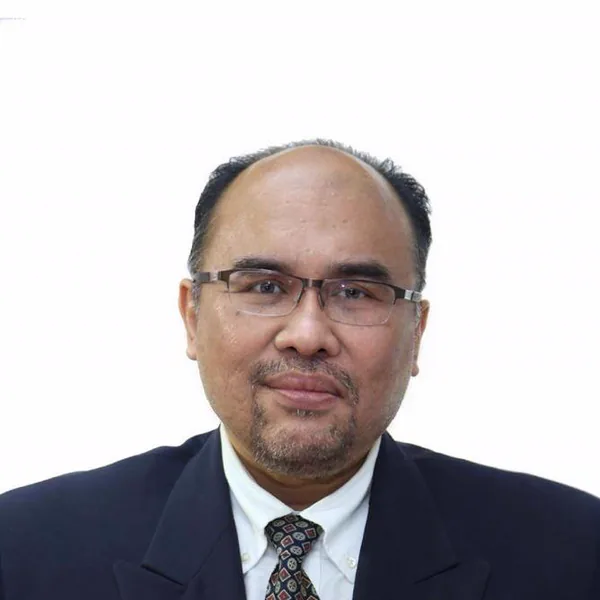
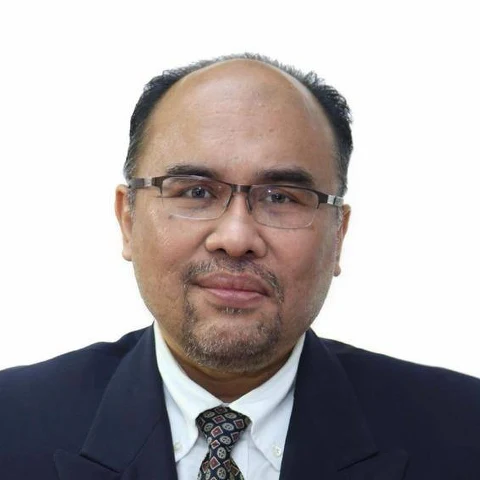
Jawatankuasa: zoom Dr Shalizan ikut saiz muka Presiden

Changed region(s): [[0.0, 0.0938, 1.0, 1.0], [0.25, 0.9375, 0.2812, 0.9688]]

diff --git a/en/about/index.html b/en/about/index.html
@@ -113,7 +113,7 @@
       </div>
       <div class="card">
         <h2>Executive Committee — Term 2026–2028</h2>
-        <div class="org-carta"><button class="gambar" type="button" data-besar="/assets/carta-organisasi-2026-2028.webp?v=baaed47a" data-kapsyen="Carta organisasi Pertubuhan Doktor Khatan Malaysia (MADOCS) sesi 2026–2028" aria-label="Organisational chart of the Malaysian Doctors of Circumcision Society (MADOCS), 2026–2028 term"><img src="/assets/carta-organisasi-2026-2028.webp?v=baaed47a" alt="Organisational chart of the Malaysian Doctors of Circumcision Society (MADOCS), 2026–2028 term" loading="lazy" decoding="async"></button><p class="nota-isi">Click the chart to view it full size. Source: official MADOCS organisational chart for the 2026–2028 term.</p></div><div class="org-grid"><div class="org-ahli"><span class="org-bulat"><img src="/assets/jawatankuasa/abdol-rashid.webp?v=6df184f1" alt="Dr. Abdol Rashid bin Masrom" loading="lazy" decoding="async"></span><b>Dr. Abdol Rashid bin Masrom</b><small>President</small></div><div class="org-ahli"><span class="org-bulat"><img src="/assets/jawatankuasa/norzaidi.webp?v=43833afc" alt="Dr. Norzaidi bin Zakaria" loading="lazy" decoding="async"></span><b>Dr. Norzaidi bin Zakaria</b><small>Vice President</small></div><div class="org-ahli"><span class="org-bulat"><img src="/assets/jawatankuasa/mohd-shafiz.webp?v=87297e07" alt="Dr. Mohd Shafiz bin Mohd Zaini" loading="lazy" decoding="async"></span><b>Dr. Mohd Shafiz bin Mohd Zaini</b><small>Secretary General</small></div><div class="org-ahli"><span class="org-bulat"><img src="/assets/jawatankuasa/azfar-hakim.webp?v=afbc307e" alt="Dr. Azfar Hakim bin Abdol Rashid" loading="lazy" decoding="async"></span><b>Dr. Azfar Hakim bin Abdol Rashid</b><small>Honorary Treasurer</small></div><div class="org-ahli"><span class="org-bulat"><img src="/assets/jawatankuasa/wan-noorasmara.webp?v=ebf7256f" alt="Dr. Wan Noorasmara bin Mohd Noor" loading="lazy" decoding="async"></span><b>Dr. Wan Noorasmara bin Mohd Noor</b><small>Assistant Secretary</small></div><div class="org-ahli"><span class="org-bulat"><img src="/assets/jawatankuasa/shalizan.webp?v=48ea8eae" alt="Dr. Shalizan bin Torman" loading="lazy" decoding="async"></span><b>Dr. Shalizan bin Torman</b><small>Committee Member</small></div><div class="org-ahli"><span class="org-bulat"><img src="/assets/jawatankuasa/hasbi-harun.webp?v=8d7171b0" alt="Datuk Dr. Hj. Hasbi bin Harun" loading="lazy" decoding="async"></span><b>Datuk Dr. Hj. Hasbi bin Harun</b><small>Committee Member</small></div><div class="org-ahli"><span class="org-bulat"><img src="/assets/jawatankuasa/shazly.webp?v=43c06efd" alt="Dr. Shazly bin Safian" loading="lazy" decoding="async"></span><b>Dr. Shazly bin Safian</b><small>Committee Member</small></div><div class="org-ahli"><span class="org-bulat"><img src="/assets/jawatankuasa/cheng-wai-woo.webp?v=d94bb0e8" alt="Dr. Cheng Wai Woo" loading="lazy" decoding="async"></span><b>Dr. Cheng Wai Woo</b><small>Committee Member</small></div><div class="org-ahli"><span class="org-bulat"><img src="/assets/jawatankuasa/afif.webp?v=b6b7841a" alt="Dr. Afif bin Mohd Ridzwan" loading="lazy" decoding="async"></span><b>Dr. Afif bin Mohd Ridzwan</b><small>Committee Member</small></div><div class="org-ahli"><span class="org-bulat"><img src="/assets/jawatankuasa/mohd-andalas.webp?v=45f28c6a" alt="Dr. Mohd Andalas Putra bin Mohamed Ismail" loading="lazy" decoding="async"></span><b>Dr. Mohd Andalas Putra bin Mohamed Ismail</b><small>Committee Member</small></div><div class="org-ahli"><span class="org-bulat"><img src="/assets/jawatankuasa/muhammad-suhail.webp?v=1ce9536b" alt="Mej (Dr) Muhammad Suhail bin Satri (B)" loading="lazy" decoding="async"></span><b>Mej (Dr) Muhammad Suhail bin Satri (B)</b><small>Committee Member</small></div><div class="org-ahli"><span class="org-bulat"><img src="/assets/jawatankuasa/mohamad-saiful.webp?v=45262b5a" alt="Dr. Mohamad Saiful bin Mohd. Said" loading="lazy" decoding="async"></span><b>Dr. Mohamad Saiful bin Mohd. Said</b><small>Committee Member</small></div></div>
+        <div class="org-carta"><button class="gambar" type="button" data-besar="/assets/carta-organisasi-2026-2028.webp?v=baaed47a" data-kapsyen="Carta organisasi Pertubuhan Doktor Khatan Malaysia (MADOCS) sesi 2026–2028" aria-label="Organisational chart of the Malaysian Doctors of Circumcision Society (MADOCS), 2026–2028 term"><img src="/assets/carta-organisasi-2026-2028.webp?v=baaed47a" alt="Organisational chart of the Malaysian Doctors of Circumcision Society (MADOCS), 2026–2028 term" loading="lazy" decoding="async"></button><p class="nota-isi">Click the chart to view it full size. Source: official MADOCS organisational chart for the 2026–2028 term.</p></div><div class="org-grid"><div class="org-ahli"><span class="org-bulat"><img src="/assets/jawatankuasa/abdol-rashid.webp?v=6df184f1" alt="Dr. Abdol Rashid bin Masrom" loading="lazy" decoding="async"></span><b>Dr. Abdol Rashid bin Masrom</b><small>President</small></div><div class="org-ahli"><span class="org-bulat"><img src="/assets/jawatankuasa/norzaidi.webp?v=43833afc" alt="Dr. Norzaidi bin Zakaria" loading="lazy" decoding="async"></span><b>Dr. Norzaidi bin Zakaria</b><small>Vice President</small></div><div class="org-ahli"><span class="org-bulat"><img src="/assets/jawatankuasa/mohd-shafiz.webp?v=87297e07" alt="Dr. Mohd Shafiz bin Mohd Zaini" loading="lazy" decoding="async"></span><b>Dr. Mohd Shafiz bin Mohd Zaini</b><small>Secretary General</small></div><div class="org-ahli"><span class="org-bulat"><img src="/assets/jawatankuasa/azfar-hakim.webp?v=afbc307e" alt="Dr. Azfar Hakim bin Abdol Rashid" loading="lazy" decoding="async"></span><b>Dr. Azfar Hakim bin Abdol Rashid</b><small>Honorary Treasurer</small></div><div class="org-ahli"><span class="org-bulat"><img src="/assets/jawatankuasa/wan-noorasmara.webp?v=ebf7256f" alt="Dr. Wan Noorasmara bin Mohd Noor" loading="lazy" decoding="async"></span><b>Dr. Wan Noorasmara bin Mohd Noor</b><small>Assistant Secretary</small></div><div class="org-ahli"><span class="org-bulat"><img src="/assets/jawatankuasa/shalizan.webp?v=d36319ab" alt="Dr. Shalizan bin Torman" loading="lazy" decoding="async"></span><b>Dr. Shalizan bin Torman</b><small>Committee Member</small></div><div class="org-ahli"><span class="org-bulat"><img src="/assets/jawatankuasa/hasbi-harun.webp?v=8d7171b0" alt="Datuk Dr. Hj. Hasbi bin Harun" loading="lazy" decoding="async"></span><b>Datuk Dr. Hj. Hasbi bin Harun</b><small>Committee Member</small></div><div class="org-ahli"><span class="org-bulat"><img src="/assets/jawatankuasa/shazly.webp?v=43c06efd" alt="Dr. Shazly bin Safian" loading="lazy" decoding="async"></span><b>Dr. Shazly bin Safian</b><small>Committee Member</small></div><div class="org-ahli"><span class="org-bulat"><img src="/assets/jawatankuasa/cheng-wai-woo.webp?v=d94bb0e8" alt="Dr. Cheng Wai Woo" loading="lazy" decoding="async"></span><b>Dr. Cheng Wai Woo</b><small>Committee Member</small></div><div class="org-ahli"><span class="org-bulat"><img src="/assets/jawatankuasa/afif.webp?v=b6b7841a" alt="Dr. Afif bin Mohd Ridzwan" loading="lazy" decoding="async"></span><b>Dr. Afif bin Mohd Ridzwan</b><small>Committee Member</small></div><div class="org-ahli"><span class="org-bulat"><img src="/assets/jawatankuasa/mohd-andalas.webp?v=45f28c6a" alt="Dr. Mohd Andalas Putra bin Mohamed Ismail" loading="lazy" decoding="async"></span><b>Dr. Mohd Andalas Putra bin Mohamed Ismail</b><small>Committee Member</small></div><div class="org-ahli"><span class="org-bulat"><img src="/assets/jawatankuasa/muhammad-suhail.webp?v=1ce9536b" alt="Mej (Dr) Muhammad Suhail bin Satri (B)" loading="lazy" decoding="async"></span><b>Mej (Dr) Muhammad Suhail bin Satri (B)</b><small>Committee Member</small></div><div class="org-ahli"><span class="org-bulat"><img src="/assets/jawatankuasa/mohamad-saiful.webp?v=45262b5a" alt="Dr. Mohamad Saiful bin Mohd. Said" loading="lazy" decoding="async"></span><b>Dr. Mohamad Saiful bin Mohd. Said</b><small>Committee Member</small></div></div>
       </div>
     </div>
     <aside class="side">

diff --git a/tentang/index.html b/tentang/index.html
@@ -113,7 +113,7 @@
       </div>
       <div class="card">
         <h2>Jawatankuasa Eksekutif — Sesi 2026–2028</h2>
-        <div class="org-carta"><button class="gambar" type="button" data-besar="/assets/carta-organisasi-2026-2028.webp?v=baaed47a" data-kapsyen="Carta organisasi Pertubuhan Doktor Khatan Malaysia (MADOCS) sesi 2026–2028" aria-label="Carta organisasi Pertubuhan Doktor Khatan Malaysia (MADOCS) sesi 2026–2028"><img src="/assets/carta-organisasi-2026-2028.webp?v=baaed47a" alt="Carta organisasi Pertubuhan Doktor Khatan Malaysia (MADOCS) sesi 2026–2028" loading="lazy" decoding="async"></button><p class="nota-isi">Klik carta untuk melihat saiz penuh. Sumber: Carta organisasi rasmi MADOCS sesi 2026–2028.</p></div><div class="org-grid"><div class="org-ahli"><span class="org-bulat"><img src="/assets/jawatankuasa/abdol-rashid.webp?v=6df184f1" alt="Dr. Abdol Rashid bin Masrom" loading="lazy" decoding="async"></span><b>Dr. Abdol Rashid bin Masrom</b><small>Presiden</small></div><div class="org-ahli"><span class="org-bulat"><img src="/assets/jawatankuasa/norzaidi.webp?v=43833afc" alt="Dr. Norzaidi bin Zakaria" loading="lazy" decoding="async"></span><b>Dr. Norzaidi bin Zakaria</b><small>Naib Presiden</small></div><div class="org-ahli"><span class="org-bulat"><img src="/assets/jawatankuasa/mohd-shafiz.webp?v=87297e07" alt="Dr. Mohd Shafiz bin Mohd Zaini" loading="lazy" decoding="async"></span><b>Dr. Mohd Shafiz bin Mohd Zaini</b><small>Setiausaha Agung</small></div><div class="org-ahli"><span class="org-bulat"><img src="/assets/jawatankuasa/azfar-hakim.webp?v=afbc307e" alt="Dr. Azfar Hakim bin Abdol Rashid" loading="lazy" decoding="async"></span><b>Dr. Azfar Hakim bin Abdol Rashid</b><small>Bendahari Kehormat</small></div><div class="org-ahli"><span class="org-bulat"><img src="/assets/jawatankuasa/wan-noorasmara.webp?v=ebf7256f" alt="Dr. Wan Noorasmara bin Mohd Noor" loading="lazy" decoding="async"></span><b>Dr. Wan Noorasmara bin Mohd Noor</b><small>Penolong Setiausaha</small></div><div class="org-ahli"><span class="org-bulat"><img src="/assets/jawatankuasa/shalizan.webp?v=48ea8eae" alt="Dr. Shalizan bin Torman" loading="lazy" decoding="async"></span><b>Dr. Shalizan bin Torman</b><small>Ahli Jawatankuasa</small></div><div class="org-ahli"><span class="org-bulat"><img src="/assets/jawatankuasa/hasbi-harun.webp?v=8d7171b0" alt="Datuk Dr. Hj. Hasbi bin Harun" loading="lazy" decoding="async"></span><b>Datuk Dr. Hj. Hasbi bin Harun</b><small>Ahli Jawatankuasa</small></div><div class="org-ahli"><span class="org-bulat"><img src="/assets/jawatankuasa/shazly.webp?v=43c06efd" alt="Dr. Shazly bin Safian" loading="lazy" decoding="async"></span><b>Dr. Shazly bin Safian</b><small>Ahli Jawatankuasa</small></div><div class="org-ahli"><span class="org-bulat"><img src="/assets/jawatankuasa/cheng-wai-woo.webp?v=d94bb0e8" alt="Dr. Cheng Wai Woo" loading="lazy" decoding="async"></span><b>Dr. Cheng Wai Woo</b><small>Ahli Jawatankuasa</small></div><div class="org-ahli"><span class="org-bulat"><img src="/assets/jawatankuasa/afif.webp?v=b6b7841a" alt="Dr. Afif bin Mohd Ridzwan" loading="lazy" decoding="async"></span><b>Dr. Afif bin Mohd Ridzwan</b><small>Ahli Jawatankuasa</small></div><div class="org-ahli"><span class="org-bulat"><img src="/assets/jawatankuasa/mohd-andalas.webp?v=45f28c6a" alt="Dr. Mohd Andalas Putra bin Mohamed Ismail" loading="lazy" decoding="async"></span><b>Dr. Mohd Andalas Putra bin Mohamed Ismail</b><small>Ahli Jawatankuasa</small></div><div class="org-ahli"><span class="org-bulat"><img src="/assets/jawatankuasa/muhammad-suhail.webp?v=1ce9536b" alt="Mej (Dr) Muhammad Suhail bin Satri (B)" loading="lazy" decoding="async"></span><b>Mej (Dr) Muhammad Suhail bin Satri (B)</b><small>Ahli Jawatankuasa</small></div><div class="org-ahli"><span class="org-bulat"><img src="/assets/jawatankuasa/mohamad-saiful.webp?v=45262b5a" alt="Dr. Mohamad Saiful bin Mohd. Said" loading="lazy" decoding="async"></span><b>Dr. Mohamad Saiful bin Mohd. Said</b><small>Ahli Jawatankuasa</small></div></div>
+        <div class="org-carta"><button class="gambar" type="button" data-besar="/assets/carta-organisasi-2026-2028.webp?v=baaed47a" data-kapsyen="Carta organisasi Pertubuhan Doktor Khatan Malaysia (MADOCS) sesi 2026–2028" aria-label="Carta organisasi Pertubuhan Doktor Khatan Malaysia (MADOCS) sesi 2026–2028"><img src="/assets/carta-organisasi-2026-2028.webp?v=baaed47a" alt="Carta organisasi Pertubuhan Doktor Khatan Malaysia (MADOCS) sesi 2026–2028" loading="lazy" decoding="async"></button><p class="nota-isi">Klik carta untuk melihat saiz penuh. Sumber: Carta organisasi rasmi MADOCS sesi 2026–2028.</p></div><div class="org-grid"><div class="org-ahli"><span class="org-bulat"><img src="/assets/jawatankuasa/abdol-rashid.webp?v=6df184f1" alt="Dr. Abdol Rashid bin Masrom" loading="lazy" decoding="async"></span><b>Dr. Abdol Rashid bin Masrom</b><small>Presiden</small></div><div class="org-ahli"><span class="org-bulat"><img src="/assets/jawatankuasa/norzaidi.webp?v=43833afc" alt="Dr. Norzaidi bin Zakaria" loading="lazy" decoding="async"></span><b>Dr. Norzaidi bin Zakaria</b><small>Naib Presiden</small></div><div class="org-ahli"><span class="org-bulat"><img src="/assets/jawatankuasa/mohd-shafiz.webp?v=87297e07" alt="Dr. Mohd Shafiz bin Mohd Zaini" loading="lazy" decoding="async"></span><b>Dr. Mohd Shafiz bin Mohd Zaini</b><small>Setiausaha Agung</small></div><div class="org-ahli"><span class="org-bulat"><img src="/assets/jawatankuasa/azfar-hakim.webp?v=afbc307e" alt="Dr. Azfar Hakim bin Abdol Rashid" loading="lazy" decoding="async"></span><b>Dr. Azfar Hakim bin Abdol Rashid</b><small>Bendahari Kehormat</small></div><div class="org-ahli"><span class="org-bulat"><img src="/assets/jawatankuasa/wan-noorasmara.webp?v=ebf7256f" alt="Dr. Wan Noorasmara bin Mohd Noor" loading="lazy" decoding="async"></span><b>Dr. Wan Noorasmara bin Mohd Noor</b><small>Penolong Setiausaha</small></div><div class="org-ahli"><span class="org-bulat"><img src="/assets/jawatankuasa/shalizan.webp?v=d36319ab" alt="Dr. Shalizan bin Torman" loading="lazy" decoding="async"></span><b>Dr. Shalizan bin Torman</b><small>Ahli Jawatankuasa</small></div><div class="org-ahli"><span class="org-bulat"><img src="/assets/jawatankuasa/hasbi-harun.webp?v=8d7171b0" alt="Datuk Dr. Hj. Hasbi bin Harun" loading="lazy" decoding="async"></span><b>Datuk Dr. Hj. Hasbi bin Harun</b><small>Ahli Jawatankuasa</small></div><div class="org-ahli"><span class="org-bulat"><img src="/assets/jawatankuasa/shazly.webp?v=43c06efd" alt="Dr. Shazly bin Safian" loading="lazy" decoding="async"></span><b>Dr. Shazly bin Safian</b><small>Ahli Jawatankuasa</small></div><div class="org-ahli"><span class="org-bulat"><img src="/assets/jawatankuasa/cheng-wai-woo.webp?v=d94bb0e8" alt="Dr. Cheng Wai Woo" loading="lazy" decoding="async"></span><b>Dr. Cheng Wai Woo</b><small>Ahli Jawatankuasa</small></div><div class="org-ahli"><span class="org-bulat"><img src="/assets/jawatankuasa/afif.webp?v=b6b7841a" alt="Dr. Afif bin Mohd Ridzwan" loading="lazy" decoding="async"></span><b>Dr. Afif bin Mohd Ridzwan</b><small>Ahli Jawatankuasa</small></div><div class="org-ahli"><span class="org-bulat"><img src="/assets/jawatankuasa/mohd-andalas.webp?v=45f28c6a" alt="Dr. Mohd Andalas Putra bin Mohamed Ismail" loading="lazy" decoding="async"></span><b>Dr. Mohd Andalas Putra bin Mohamed Ismail</b><small>Ahli Jawatankuasa</small></div><div class="org-ahli"><span class="org-bulat"><img src="/assets/jawatankuasa/muhammad-suhail.webp?v=1ce9536b" alt="Mej (Dr) Muhammad Suhail bin Satri (B)" loading="lazy" decoding="async"></span><b>Mej (Dr) Muhammad Suhail bin Satri (B)</b><small>Ahli Jawatankuasa</small></div><div class="org-ahli"><span class="org-bulat"><img src="/assets/jawatankuasa/mohamad-saiful.webp?v=45262b5a" alt="Dr. Mohamad Saiful bin Mohd. Said" loading="lazy" decoding="async"></span><b>Dr. Mohamad Saiful bin Mohd. Said</b><small>Ahli Jawatankuasa</small></div></div>
       </div>
     </div>
     <aside class="side">
